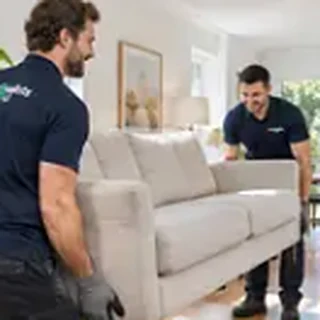
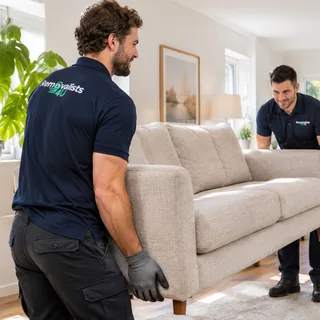
Rates heading, full FAQ answers, HQ photos, step 2 incentives
- Rates heading: 'Affordable Rates to keep your move cost efficient!'
- FAQ: four placeholder answers filled, two new questions on cleaning and
  utility connection (48-hour damage window flagged to confirm)
- Service cards and closing panel use the client's full-size photos; the
  closing photo starts below the face so nothing is cut mid-face
- Step 2: free delivery tag on boxes and supplies; cleaning and utility
  cards restyled with equal weight, icons on desktop and mobile

diff --git a/additional-details.html b/additional-details.html
@@ -102,6 +102,20 @@ h1{font-size:32px;line-height:1.15;letter-spacing:-.02em}
 .more{margin-top:12px}
 
 /* extras */
+.chead{display:flex;align-items:center;justify-content:space-between;gap:12px;margin-bottom:18px}
+.cic{display:grid;place-items:center;width:52px;height:52px;border-radius:14px;flex:none}
+.cic svg{width:28px;height:28px}
+.clean .cic{background:var(--amber-soft);color:#C67A00}
+.util .cic{background:var(--mint-soft);color:var(--teal)}
+.ctag{padding:5px 12px;border-radius:20px;font-size:13px;font-weight:700;letter-spacing:.03em;text-transform:uppercase;white-space:nowrap}
+.clean .ctag{background:var(--amber);color:var(--ink)}
+.util .ctag{background:var(--teal);color:#fff}
+.freedel span{flex-direction:column;gap:6px;padding:10px 12px}
+.ftag{font-style:normal;font-size:12px;font-weight:700;letter-spacing:.05em;text-transform:uppercase;padding:3px 10px;border-radius:20px;background:var(--mint-soft);color:var(--teal)}
+.freedel input:checked+span .ftag{background:var(--mint);color:var(--ink)}
+.delnote{display:flex;align-items:center;gap:10px;margin-top:10px;padding:10px 14px;border-radius:8px;background:var(--mint-soft);font-size:15px;color:var(--ink)}
+.delnote svg{width:24px;height:24px;flex:none;color:var(--teal)}
+.delnote b{color:var(--teal)}
 .extras{margin-top:8px;padding:36px;border-radius:14px;background:var(--mint-soft)}
 .extras>h2{font-size:26px;letter-spacing:-.012em}
 .extras>p{margin-top:4px;font-size:17px}
@@ -119,8 +133,7 @@ h1{font-size:32px;line-height:1.15;letter-spacing:-.02em}
 @keyframes pop{0%{transform:scale(.3);opacity:0}70%{transform:scale(1.25)}100%{transform:scale(1);opacity:1}}
 .small{margin-top:12px;font-size:14px;line-height:1.5;color:var(--muted)}
 /* cleaning: the one offer on the page */
-.card.clean{border:2px solid var(--amber);padding-top:58px;padding-bottom:30px}
-.ribbon{position:absolute;top:0;left:0;right:0;padding:9px 16px;border-radius:10px 10px 0 0;background:var(--amber);color:var(--ink);font-size:14px;font-weight:700;letter-spacing:.08em;text-align:center}
+.card.clean{border:2px solid var(--amber)}
 .big{font-size:30px;line-height:1.1;font-weight:700;color:var(--ink);letter-spacing:-.02em}
 .under{font-size:16px;color:var(--text);margin-top:2px}
 .clean h3{margin-top:18px}
@@ -132,12 +145,12 @@ h1{font-size:32px;line-height:1.15;letter-spacing:-.02em}
 .alt{display:block;margin:14px auto 0;padding:4px;background:none;border:0;font:500 15px/1.4 Barlow,Arial,sans-serif;color:var(--ink);text-decoration:underline;text-decoration-color:var(--amber);text-underline-offset:4px;cursor:pointer;text-align:center}
 .alt-opts{margin-top:12px;--min:120px}
 /* utilities: calm teal */
-.badge{display:inline-block;padding:4px 10px;border-radius:20px;background:var(--teal);color:#fff;font-size:13px;font-weight:600;letter-spacing:.04em}
-.plug{display:grid;place-items:center;width:46px;height:46px;margin:16px 0 12px;border-radius:12px;background:var(--mint-soft);color:var(--teal)}
-.plug svg{width:24px;height:24px}
-.util .toggle{background:#fff;color:var(--ink);border:1.5px solid var(--teal)}.util .toggle:hover{background:var(--mint-soft)}
+.card.util{border:2px solid var(--teal)}
+.util h3{margin-top:18px}
+.util .big{color:var(--teal)}
+.util .toggle{background:var(--teal);color:#fff}.util .toggle:hover{background:#225F51}
 .card.util.on{border-color:var(--teal);background:#F6FBF9}
-.util .toggle[aria-pressed=true]{background:var(--teal);color:#fff;border-color:var(--teal)}
+.util .toggle[aria-pressed=true]{background:var(--ink);color:#fff}
 .uopts{display:flex;flex-wrap:wrap;gap:8px 18px;margin-top:14px;font-size:16px;font-weight:500;color:var(--ink)}
 .uopts label{display:flex;align-items:center;gap:8px;cursor:pointer}
 .uopts input{width:19px;height:19px;margin:0;accent-color:var(--teal)}
@@ -196,15 +209,17 @@ footer a{text-decoration:none}footer a:hover{color:#fff}
   .extras{margin:4px -16px 0;padding:28px 16px;border-radius:0}
   .extras>h2{font-size:23px}
   .card{padding:22px 18px}
-  .card.clean{padding-top:52px}
   .big{font-size:28px}
   .card{padding:18px 16px}
-  .card.clean{padding-top:46px;padding-bottom:18px}
-  .ribbon{padding:7px 12px;font-size:13px}
-  .card .big,.card .under,.card .ticks,.card .plug,.card .gchip{display:none}
+  .card .big,.card .under,.card .ticks,.card .gchip{display:none}
+  .chead{margin-bottom:12px}
+  .cic{width:44px;height:44px;border-radius:12px}
+  .cic svg{width:24px;height:24px}
+  .ctag{font-size:12px;padding:4px 10px}
+  .clean h3,.util h3{margin-top:0}
+  .delnote{font-size:14px}
   .card h3{font-size:19px}
   .card .line{margin:4px 0 14px;font-size:15px;line-height:1.45}
-  .card .badge{margin-bottom:8px}
   .toggle{min-height:50px;font-size:16px}
   .alt{margin-top:10px;font-size:14px}
   .small{margin-top:10px;font-size:13px}
@@ -219,6 +234,9 @@ footer a{text-decoration:none}footer a:hover{color:#fff}
   <symbol id="i-check" viewBox="0 0 24 24"><path fill="none" stroke="currentColor" stroke-width="2.6" stroke-linecap="round" stroke-linejoin="round" d="M5 12.5l4.5 4.5L19 7.5"/></symbol>
   <symbol id="i-gift" viewBox="0 0 24 24"><g fill="none" stroke="currentColor" stroke-width="2" stroke-linecap="round" stroke-linejoin="round"><rect x="3" y="8" width="18" height="4" rx="1"/><path d="M12 8v13M19 12v7a2 2 0 0 1-2 2H7a2 2 0 0 1-2-2v-7"/><path d="M7.5 8a2.5 2.5 0 0 1 0-5C10 3 12 8 12 8s2-5 4.5-5a2.5 2.5 0 0 1 0 5"/></g></symbol>
   <symbol id="i-shield" viewBox="0 0 24 24"><g fill="none" stroke="currentColor" stroke-width="1.9" stroke-linecap="round" stroke-linejoin="round"><path d="M12 2l8 3.5v6c0 5-3.4 8.9-8 10.5-4.6-1.6-8-5.5-8-10.5v-6z"/><path d="M8.5 12l2.5 2.5 4.5-5"/></g></symbol>
+  <symbol id="i-sparkle" viewBox="0 0 24 24"><g fill="none" stroke="currentColor" stroke-width="1.9" stroke-linecap="round" stroke-linejoin="round"><path d="M10 3l1.9 5.1L17 10l-5.1 1.9L10 17l-1.9-5.1L3 10l5.1-1.9z"/><path d="M18 14l.9 2.1L21 17l-2.1.9L18 20l-.9-2.1L15 17l2.1-.9z"/><path d="M18 3v4M16 5h4"/></g></symbol>
+  <symbol id="i-bolt" viewBox="0 0 24 24"><path fill="none" stroke="currentColor" stroke-width="1.9" stroke-linecap="round" stroke-linejoin="round" d="M13 2L4.5 13.5H11l-1 8.5 8.5-11.5H12z"/></symbol>
+  <symbol id="i-truck" viewBox="0 0 24 24"><g fill="none" stroke="currentColor" stroke-width="1.9" stroke-linecap="round" stroke-linejoin="round"><path d="M2 6h12v10H2zM14 9.5h4l3 3.5v3h-7"/><circle cx="6" cy="17.5" r="1.8"/><circle cx="17" cy="17.5" r="1.8"/></g></symbol>
   <symbol id="i-plug" viewBox="0 0 24 24"><g fill="none" stroke="currentColor" stroke-width="1.9" stroke-linecap="round" stroke-linejoin="round"><path d="M9 2v5M15 2v5M6 7h12v4a6 6 0 0 1-12 0zM12 17v5"/></g></symbol>
 </svg>
 <a class="skip" href="#main">Skip to the form</a>
@@ -305,8 +323,10 @@ footer a{text-decoration:none}footer a:hover{color:#fff}
           <span class="lbl" id="boxLbl">Boxes and supplies <span class="opt-tag">(optional)</span></span>
           <div class="opts" role="radiogroup" aria-labelledby="boxLbl" style="--min:200px">
             <label class="opt"><input type="radio" name="boxes" value="no"><span>No thanks</span></label>
-            <label class="opt"><input type="radio" name="boxes" value="yes"><span>Yes, I need boxes and packing supplies</span></label>
+            <label class="opt freedel"><input type="radio" name="boxes" value="yes"><span>Yes, I need boxes and packing supplies<em class="ftag">Free delivery</em></span></label>
           </div>
+          <!-- confirm free-delivery terms (areas, minimum order) with Removalists4u before launch -->
+          <p class="delnote"><svg aria-hidden="true"><use href="#i-truck"/></svg><span><b>Free delivery</b> of boxes and packing supplies to your door before moving day.</span></p>
         </div>
         <div class="field">
           <span class="lbl" id="heavyLbl">Heavy or special items <span class="opt-tag">(optional, tick any)</span></span>
@@ -338,7 +358,7 @@ footer a{text-decoration:none}footer a:hover{color:#fff}
         <input type="hidden" name="utility_consent_at" id="uConsentAt">
         <div class="cards">
           <div class="card clean" id="cardClean">
-            <div class="ribbon">SAVE 10% ON YOUR MOVE</div>
+            <div class="chead"><span class="cic" aria-hidden="true"><svg><use href="#i-sparkle"/></svg></span><span class="ctag">Save 10% on your move</span></div>
             <p class="big">10% off your move</p>
             <p class="under">when you add an end-of-lease clean</p>
             <!-- optional saving line once the figure is confirmed: <p class="under"><b>That's about $[X] off a typical move.</b></p> -->
@@ -360,9 +380,10 @@ footer a{text-decoration:none}footer a:hover{color:#fff}
           </div>
 
           <div class="card util" id="cardUtil">
-            <span class="badge">Free service</span>
-            <span class="plug" aria-hidden="true"><svg><use href="#i-plug"/></svg></span>
-            <h3>Get your utilities connected, free</h3>
+            <div class="chead"><span class="cic" aria-hidden="true"><svg><use href="#i-bolt"/></svg></span><span class="ctag">Free, no cost to you</span></div>
+            <p class="big">Free connection</p>
+            <p class="under">electricity, gas and internet</p>
+            <h3>Get your utilities connected</h3>
             <p class="line">Electricity, gas and internet sorted for your new home before you arrive. One call from our connection partner, at no cost to you.</p>
             <ul class="ticks">
               <li><svg aria-hidden="true"><use href="#i-check"/></svg>Everything arranged in one call</li>

diff --git a/index.html b/index.html
@@ -236,7 +236,7 @@ a.rrow:hover{background:var(--mint-soft)}
 .panel .acts{display:flex;gap:28px;align-items:center;flex-wrap:wrap;margin-top:36px}
 .panel .link{color:#fff}
 .panel .avail{color:var(--mint);margin-top:20px}
-.panel img{width:100%;height:100%;object-fit:cover;object-position:40% 12%}
+.panel img{width:100%;height:100%;object-fit:cover;object-position:35% 30%}
 .panel::after{content:"";position:absolute;left:0;top:0;width:150px;height:150px;background:linear-gradient(135deg,#2E4680 0 14%,transparent 14% 19%,var(--mint) 19% 25%,transparent 25%);pointer-events:none}
 
 /* footer */
@@ -477,7 +477,7 @@ footer a{text-decoration:none}footer a:hover{color:#fff}
 <section class="sec rates-sec" id="pricing">
   <div class="wrap">
     <div class="rhead">
-      <div><span class="sdiv" aria-hidden="true"></span><span class="eyebrow">Our rates</span><h2>Discounted half-hour rates, sized to your home.</h2></div>
+      <div><span class="sdiv" aria-hidden="true"></span><span class="eyebrow">Our rates</span><h2>Affordable Rates to keep your move cost efficient!</h2></div>
       <p class="lead">Every rate includes two movers and a truck sized to your home. Pick your home size to start a quote.</p>
     </div>
     <div class="rates">
@@ -547,13 +547,13 @@ footer a{text-decoration:none}footer a:hover{color:#fff}
 </section>
 
 <section class="sec" id="services">
-  <!-- Service photos: cropped from a client screenshot (about 180px wide), so they are soft. Replace svc-*.webp with the full-size originals when supplied. -->
+  <!-- Service photos: full-size originals supplied by the client. -->
   <div class="wrap">
     <div class="shead"><span class="sdiv" aria-hidden="true"></span><span class="eyebrow">Services</span><h2>Homes, apartments and offices.</h2></div>
     <div class="svc">
-      <div><img src="assets/svc-house.webp" srcset="assets/svc-house-sq.webp 320w, assets/svc-house.webp 600w" sizes="(max-width:760px) 104px, 33vw" width="600" height="450" loading="lazy" decoding="async" alt="Two Removalists4u movers carrying a sofa through a bright living room"><h3><svg aria-hidden="true"><use href="#i-home"/></svg>House removals</h3><p>Experienced, friendly teams who carefully pack, load and transport your belongings to your new home.</p></div>
-      <div><img src="assets/svc-apartment.webp" srcset="assets/svc-apartment-sq.webp 320w, assets/svc-apartment.webp 600w" sizes="(max-width:760px) 104px, 33vw" width="600" height="450" loading="lazy" decoding="async" alt="Two Removalists4u movers carrying boxes out of an apartment lift"><h3><svg aria-hidden="true"><use href="#i-building"/></svg>Apartment removals</h3><p>From a quick apartment shift to a larger unit, handled with care from door to door.</p></div>
-      <div><img src="assets/svc-office.webp" srcset="assets/svc-office-sq.webp 320w, assets/svc-office.webp 600w" sizes="(max-width:760px) 104px, 33vw" width="600" height="450" loading="lazy" decoding="async" alt="Two Removalists4u movers moving desks and office chairs in an open-plan office"><h3><svg aria-hidden="true"><use href="#i-brief"/></svg>Office relocations</h3><p>Minimal downtime and disruption, with IT equipment and workstations moved securely and on time.</p></div>
+      <div><img src="assets/svc-house.webp?v=5" srcset="assets/svc-house-sq.webp?v=5 320w, assets/svc-house.webp?v=5 1200w" sizes="(max-width:760px) 104px, 33vw" width="1200" height="900" loading="lazy" decoding="async" alt="Two Removalists4u movers carrying a sofa through a bright living room"><h3><svg aria-hidden="true"><use href="#i-home"/></svg>House removals</h3><p>Experienced, friendly teams who carefully pack, load and transport your belongings to your new home.</p></div>
+      <div><img src="assets/svc-apartment.webp?v=5" srcset="assets/svc-apartment-sq.webp?v=5 320w, assets/svc-apartment.webp?v=5 1200w" sizes="(max-width:760px) 104px, 33vw" width="1200" height="900" loading="lazy" decoding="async" alt="Two Removalists4u movers carrying boxes out of an apartment lift"><h3><svg aria-hidden="true"><use href="#i-building"/></svg>Apartment removals</h3><p>From a quick apartment shift to a larger unit, handled with care from door to door.</p></div>
+      <div><img src="assets/svc-office.webp?v=5" srcset="assets/svc-office-sq.webp?v=5 320w, assets/svc-office.webp?v=5 1200w" sizes="(max-width:760px) 104px, 33vw" width="1200" height="900" loading="lazy" decoding="async" alt="Two Removalists4u movers moving desks and office chairs in an open-plan office"><h3><svg aria-hidden="true"><use href="#i-brief"/></svg>Office relocations</h3><p>Minimal downtime and disruption, with IT equipment and workstations moved securely and on time.</p></div>
     </div>
     <p class="also"><b>Also available:</b> full or partial packing and unpacking, and interstate moves.</p>
   </div>
@@ -579,14 +579,16 @@ footer a{text-decoration:none}footer a:hover{color:#fff}
 <section class="sec faq" id="faq">
   <div class="wrap">
     <div><span class="sdiv" aria-hidden="true"></span><span class="eyebrow">FAQ</span><h2>Before you book.</h2></div>
-    <!-- answers marked .tbc are waiting on Removalists4u -->
+    <!-- [confirm] before launch: the 48-hour damage-reporting window in "What happens if something gets damaged?" -->
     <div class="faqs">
-      <details name="f" open><summary>What's included in the half-hour rate?</summary><p class="tbc">Answer to come from Removalists4u: movers, truck, blankets and trolleys.</p></details>
-      <details name="f"><summary>Do stairs, lifts or heavy items cost extra?</summary><p class="tbc">Answer to come from Removalists4u.</p></details>
-      <details name="f"><summary>What happens if something gets damaged?</summary><p class="tbc">Answer to come from Removalists4u.</p></details>
-      <details name="f"><summary>Is there a deposit, and what's the cancellation policy?</summary><p class="tbc">Answer to come from Removalists4u.</p></details>
+      <details name="f" open><summary>What's included in the half-hour rate?</summary><p>Two movers and a truck sized to your home, with blankets and trolleys to protect and move your furniture. Your quote confirms everything before you book.</p></details>
+      <details name="f"><summary>Do stairs, lifts or heavy items cost extra?</summary><p>Let us know about stairs, lifts and heavy items like pianos, pool tables or safes when you enquire. Your quote allows for them, so there are no surprises on the day.</p></details>
+      <details name="f"><summary>What happens if something gets damaged?</summary><p>Providers carry insurance for your move. If anything is damaged, let us know within 48 hours of your move and our team will work through it with you.</p></details>
+      <details name="f"><summary>Is there a deposit, and what's the cancellation policy?</summary><p>A deposit secures your booking. You can reschedule or cancel with more than 48 hours' notice; within 48 hours of your move, the deposit isn't refundable. Interstate moves need at least 7 days' notice.</p></details>
       <details name="f"><summary>What if my move runs over the estimate?</summary><p>You pay for the time taken, per half hour. If your move runs longer than estimated, you're only charged for the additional time at the agreed rate, with no hidden charges.</p></details>
       <details name="f"><summary>Can you do same-day or next-day moves?</summary><p>Often, yes. We recommend booking 3–5 days ahead, but we also take next-day and same-day moves when a team is available. Call us to check today's availability.</p></details>
+      <details name="f"><summary>Can you clean my old place too?</summary><p>Yes. Add an end-of-lease clean with our bond-back guarantee and we'll take 10% off your move. Move-out and move-in cleans also get the 10% off.</p></details>
+      <details name="f"><summary>Can you help connect my utilities?</summary><p>Yes, at no cost. Our connection partner can set up electricity, gas and internet at your new home before you arrive. Just add it when you request your quote.</p></details>
     </div>
   </div>
 </section>
@@ -603,7 +605,7 @@ footer a{text-decoration:none}footer a:hover{color:#fff}
         </div>
         <span class="avail">Our team is available now</span>
       </div>
-      <img src="assets/moving-day-v3.webp" width="590" height="504" loading="lazy" decoding="async" alt="A Removalists4u mover checking a clipboard beside a truck loaded with branded boxes">
+      <img src="assets/moving-day-hq.webp" width="930" height="716" loading="lazy" decoding="async" alt="A Removalists4u mover checking a clipboard beside a truck loaded with branded boxes">
     </div>
   </div>
 </section>
